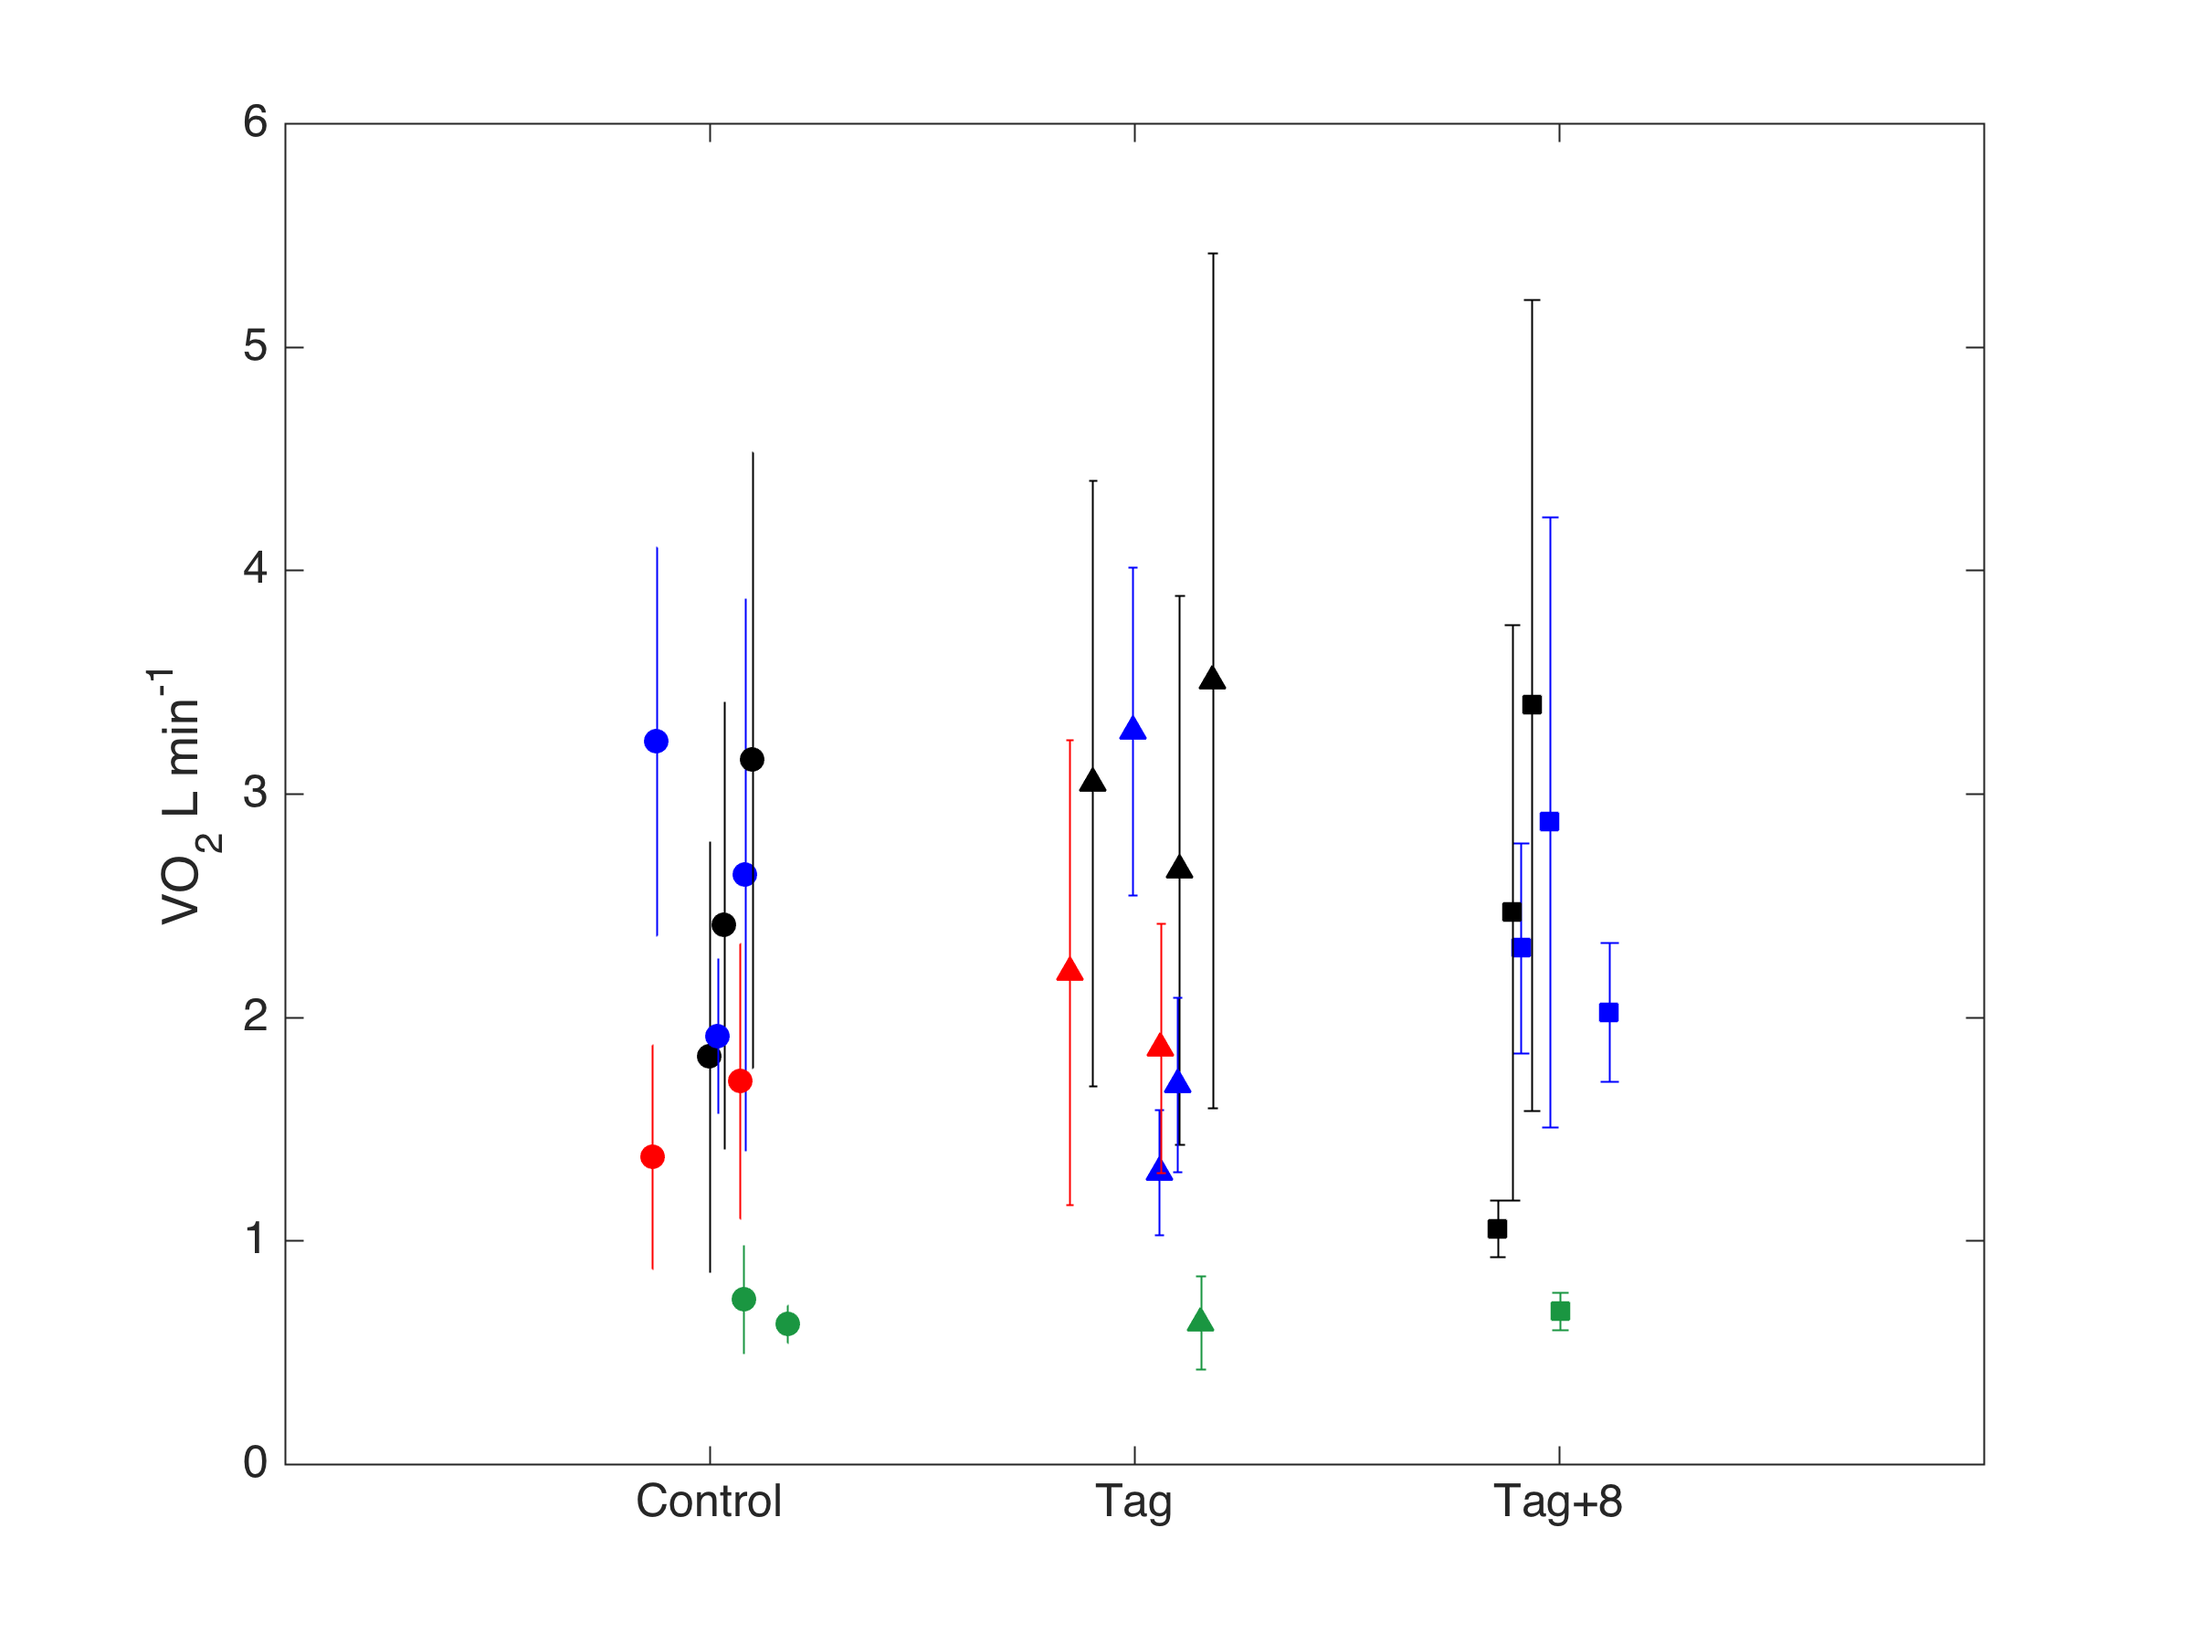
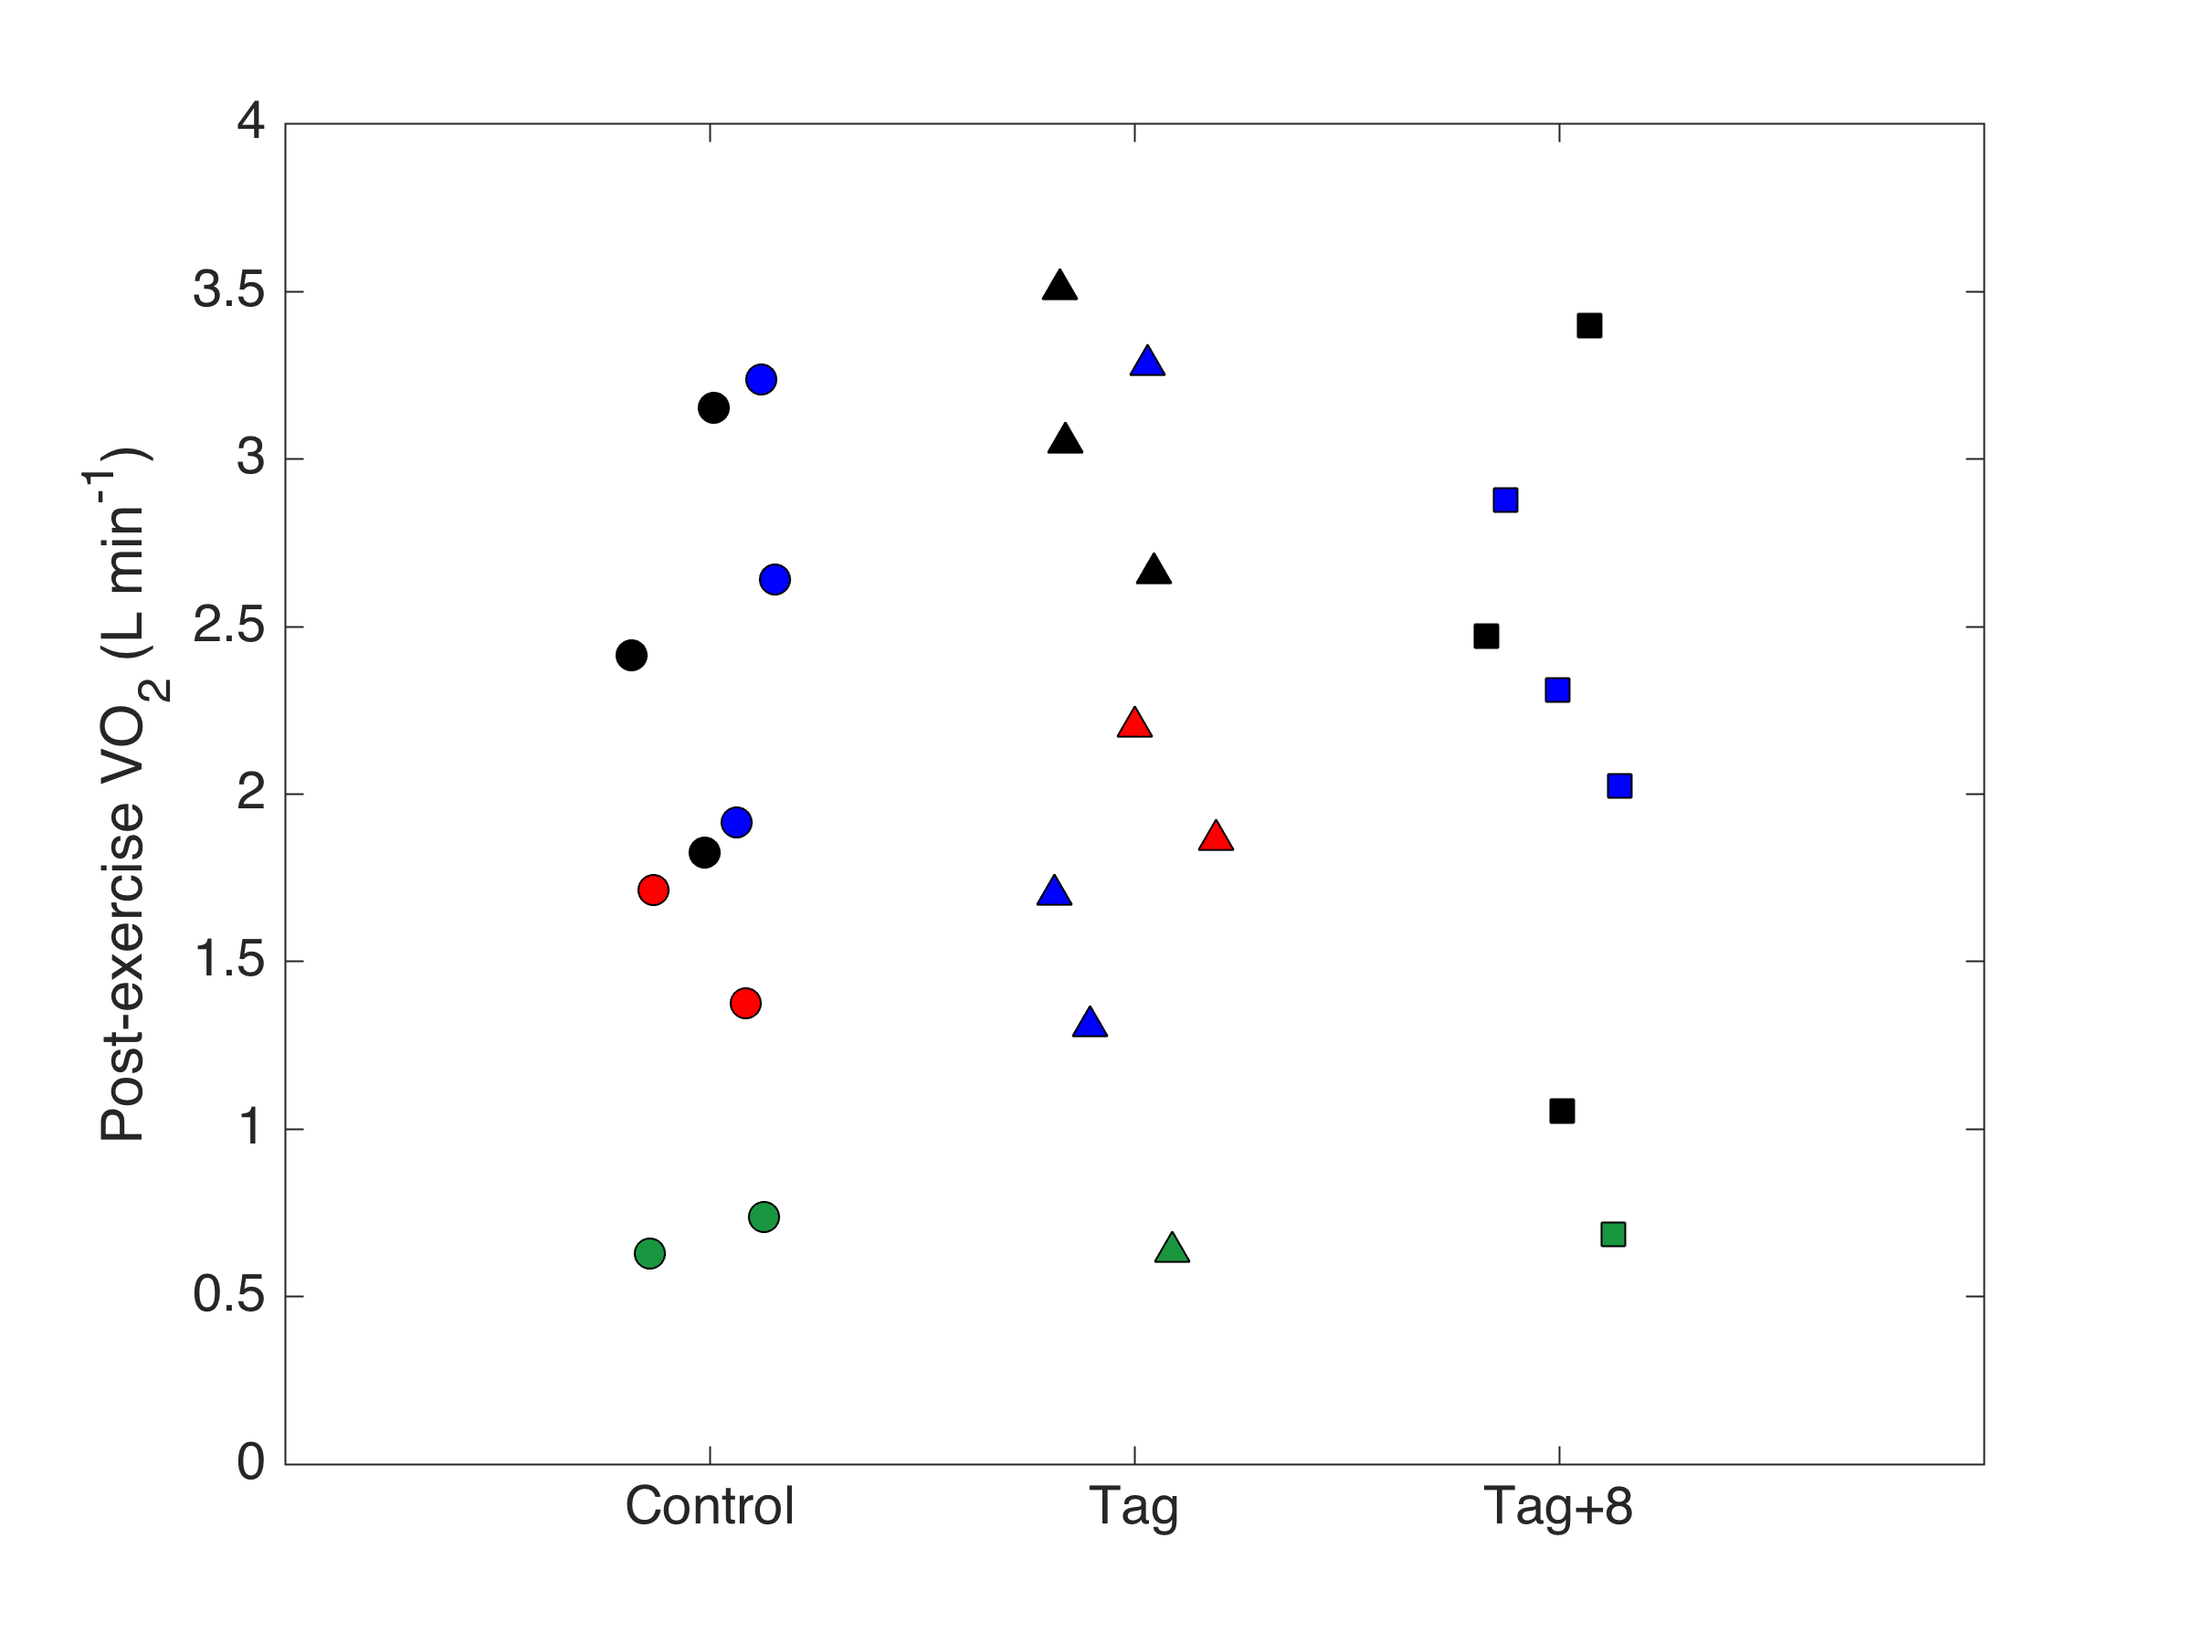
Change axis and symbol size for review

diff --git a/SelectSpeedVO2plot.m b/SelectSpeedVO2plot.m
@@ -46,32 +46,32 @@ figure(1); clf, hold on
 for i = 1:length(VO2_table)
     jit = -.2 + (.2--.2).*rand;
     if strfind(VO2_table{i,2},'C')
-        h = errorbar(0+jit,VO2_table{i,6}(1),VO2_table{i,6}(1)-VO2_table{i,6}(2),'o');
+        h = plot(0+jit,VO2_table{i,6}(1),'ko');
     else if strfind(VO2_table{i,2},'A4')
-            h = errorbar(2+jit,VO2_table{i,6}(1),VO2_table{i,6}(1)-VO2_table{i,6}(2),'s');
+            h = plot(2+jit,VO2_table{i,6}(1),'ks');
         else
-            h = errorbar(1+jit,VO2_table{i,6}(1),VO2_table{i,6}(1)-VO2_table{i,6}(2),'^');
+            h = plot(1+jit,VO2_table{i,6}(1),'k^');
         end
     end
     if strfind(VO2_table{i,1},'Nainoa')
-        set(h,'color',[26/255 150/255 65/255],'MarkerFaceColor','auto')
+        set(h,'MarkerFaceColor',[26/255 150/255 65/255],'MarkerSize',8)
     else if strfind(VO2_table{i,1},'Lono')
-            set(h,'color','k','MarkerFaceColor','auto')
+            set(h,'color','k','MarkerFaceColor','k','MarkerSize',8)
         else if strfind(VO2_table{i,1},'Kolohe')
-                set(h,'color','b','MarkerFaceColor','auto')
+                set(h,'MarkerFaceColor','b','MarkerSize',8)
             else
-                set(h,'color','r','MarkerFaceColor','auto')
+                set(h,'MarkerFaceColor','r','MarkerSize',8)
             end
         end
     end
 end
 set(gca,'xtick',[0 1 2]); xlim([-1 3]); box on
 % title(headers{6}); 
-ylabel('VO_2 L min^{-1}')
+ylabel('Post-exercise VO_2 (L min^{-1})')
 
 set(gca,'xtick',[0 1 2],'xticklabels',{'Control','Tag','Tag+8'})
-
-adjustfigurefont
+ylim([0 4])
+adjustfigurefont('Helvetica',14)
 cd /Users/julievanderhoop/Documents/MATLAB/DQ/DQ2013/AnalysisFigs
 print('SelfSelect_AllRecov','-dpng','-r300')
 
